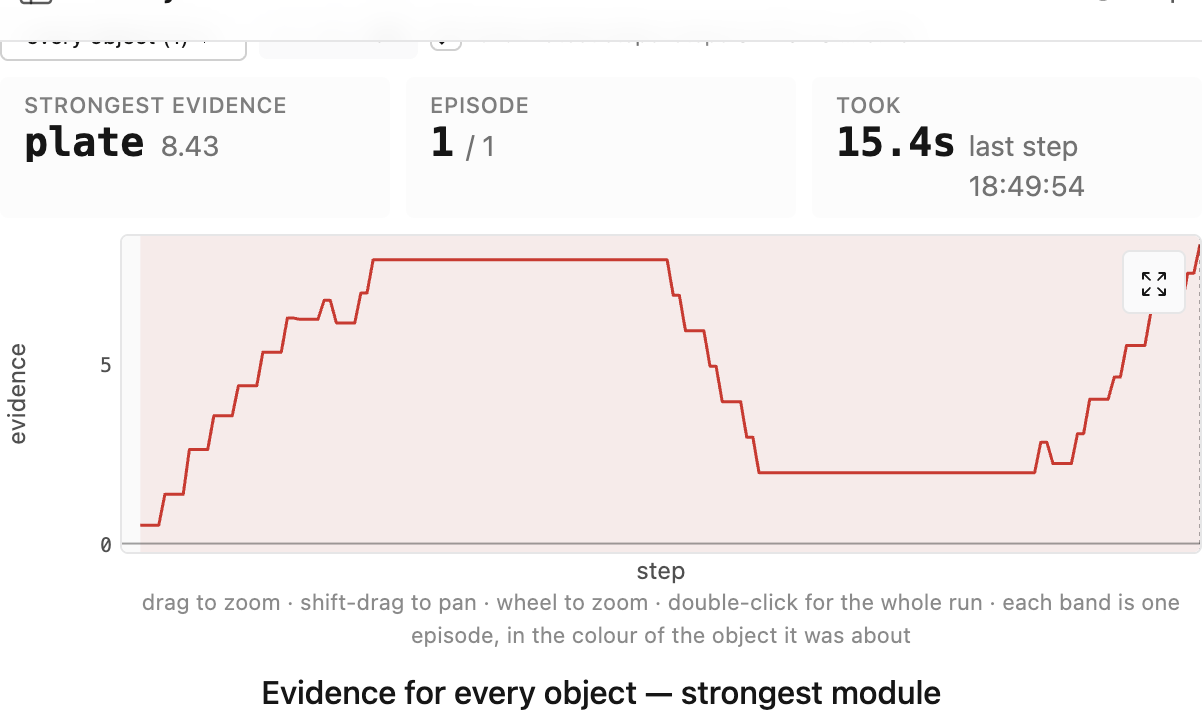
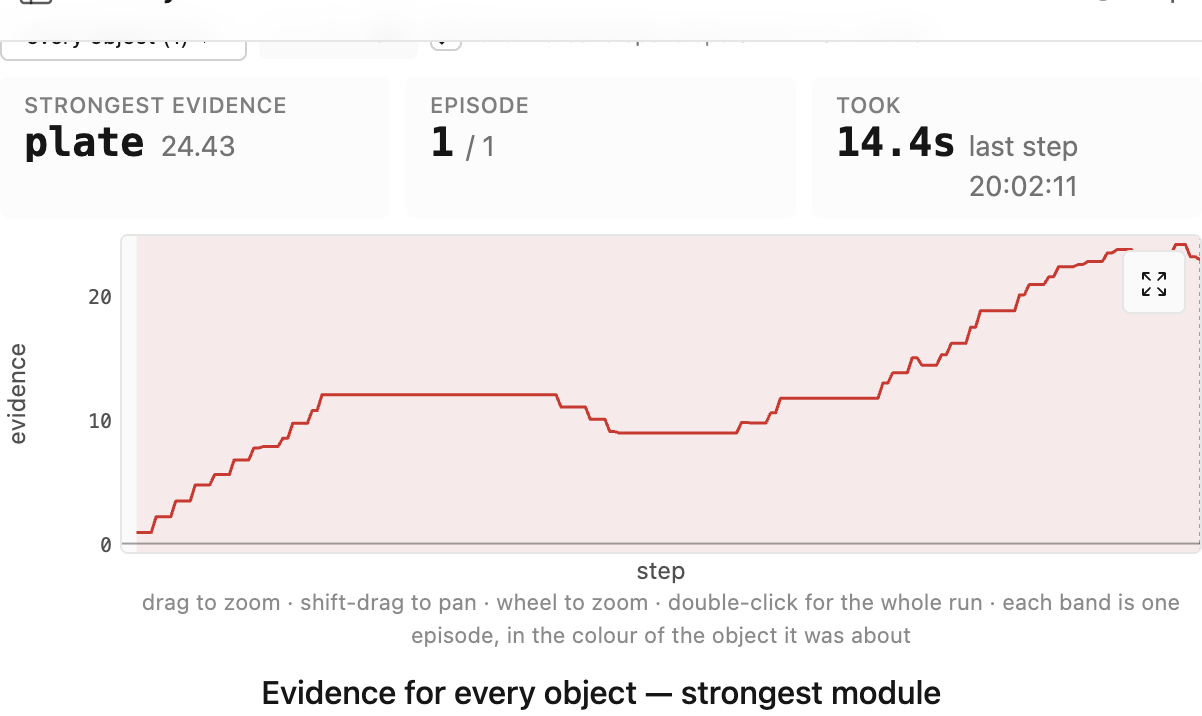
The mesh run earns three times the evidence once the grey is grey
why: the first stage-three run matched on a thin trail and the chart said so — a
flat stretch, five steps of exactly minus one, then a late climb. Reading the
trace said why: every observation scored zero on hue, the loudest column the
learning module has, because the exported grey had a blue cast the exact world
never showed.

what: the fourth section now carries the run with the neutral grey — evidence
24.43 against 8.43, still in half the steps the B-rep took — and a subsection
that says what the first number was actually measuring, and what is left of it.

proved: `mix run scripts/cad_mesh_eval.exs` — plate, 222 steps, recognised,
`outcome learning_module_0=match`, 14.4 s, strongest evidence 24.43.

diff --git a/docs/cad-results.md b/docs/cad-results.md
@@ -91,15 +91,45 @@ memory: /tmp/cad-experiment/plate — reading plate
 
 ![The mesh evaluation's page](images/cad-mesh-eval-summary.png)
 
-`cad_mesh_eval` — **finished**, `recognition`, world **mujoco**, 177 steps in
-ep 1/1, **recognised**: `outcome learning_module_0=match`, 15.4 s.
+`cad_mesh_eval` — **finished**, `recognition`, world **mujoco**, 222 steps in
+ep 1/1, **recognised**: `outcome learning_module_0=match`, 14.4 s, strongest
+evidence **24.43**.
 
 ![Its evidence](images/cad-mesh-eval-chart.png)
 
-The memory written against the exact B-rep named `plate` from the mesh, in fewer
-steps than it took against the B-rep itself (177 against 420). A tessellation of
-the same surface is the same object to a graph, and a mesh world costs less per
-step than a ray cast.
+The memory written against the exact B-rep named `plate` from the mesh, in half
+the steps it took against the B-rep itself (222 against 420) and against
+_stronger_ evidence (24.43 against 20.41). It did not say that the first time.
+
+### What the first run was really measuring
+
+The first pass at this reached evidence 8.43 and had a shape worth reading: up to
+8.0, a long flat stretch, then five steps that each cost exactly one, then a
+climb. A matching step is worth `log(score / (1 - score))` for that node's
+weighted feature score, so a step of exactly minus one is a score of 0.27, and
+the healthy steps of +0.95 were scores of 0.72.
+
+The cause was colour, and it was ours. The CAD world's `rgba` is _shading_: one
+light, so the memory learned hue 0 with value 0.25, 0.62 and 0.83. `MontyCad.Export`
+wrote `{0.72, 0.72, 0.75}` — blue a step above red, a hue of 0.583 — and the
+tutorial's learning module matches `hsv` at tolerance 0.1 with hue weighted 2,
+the loudest column it has. Every observation in the mesh world was therefore
+scored zero on the feature that counts most, and no amount of lighting could
+repair it: a light scales a colour, it does not paint it. `ExTbpMonty.Cad.Objects`
+put the number in the texture; `MontyCad.Export` chose it.
+
+The export now writes one grey whose three channels are equal, which is the hue
+and saturation the exact world shows whatever light either world applies. Two
+cases in `ex_monty_cad` hold it there. A matching step is worth 1.28 rather than
+0.95 (a score of 0.78 rather than 0.72) and the episode reaches a far stronger
+conclusion, which is what the two curves are: the same memory, the same world,
+three times the evidence.
+
+What is left of the gap is the part both renderers guess at differently — how
+bright a facet is under their own lights, and how much curvature a patch sees at
+the same point. That is why the curve still dips once, at step 90, and why it
+holds at 12.15 for fifty steps: the second is the agent not reaching new surface,
+which is the motor policy, not the features.
 
 ## What these results are, and are not
 
